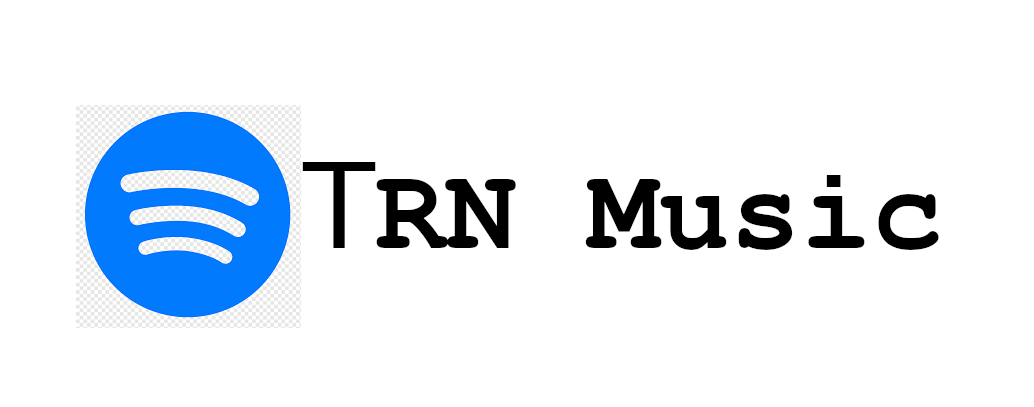
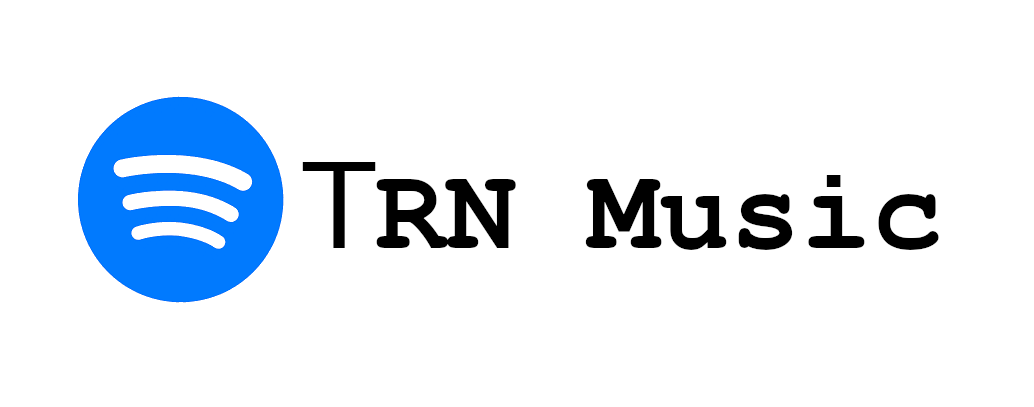
final

Changed region(s): [[0.0619, 0.2359, 0.3095, 0.8256]]

diff --git a/src/pages/Login.jsx b/src/pages/Login.jsx
@@ -3,6 +3,8 @@ import PropTypes from 'prop-types';
 import { Redirect } from 'react-router-dom';
 import { createUser } from '../services/userAPI';
 import Loading from './Loading';
+import logoTrn from './images/Sem título.png';
+import './Login.css';
 
 class Login extends React.Component {
   state = {
@@ -26,9 +28,9 @@ class Login extends React.Component {
       redirect ? <Redirect to="/search" /> : (
         <div data-testid="page-login">
           { loading ? <Loading /> : (
-            <section>
+            <section className="page-login">
               <img
-                src="src/pages/images/Sem título.png"
+                src={ logoTrn }
                 alt="logo"
               />
               <form>
@@ -39,6 +41,7 @@ class Login extends React.Component {
                     data-testid="login-name-input"
                     value={ name }
                     onChange={ onInputChange }
+                    placeholder="Usuario"
                   />
                 </label>
                 <button

diff --git a/src/components/Header.jsx b/src/components/Header.jsx
@@ -2,6 +2,8 @@ import React from 'react';
 import { Link } from 'react-router-dom';
 import Loading from '../pages/Loading';
 import { getUser } from '../services/userAPI';
+import './Header.css';
+import logoTrn from '../pages/images/Sem título.png';
 
 class Header extends React.Component {
   state = {
@@ -23,10 +25,11 @@ class Header extends React.Component {
   render() {
     const { username, loading } = this.state;
     return (
-      <header data-testid="header-component">
+      <header data-testid="header-component" className="header-component">
         {loading ? <Loading /> : (
-          <div data-testid="header-user-name">
-            { username }
+          <div data-testid="header-user-name" className="header-user-name">
+            <img src={ logoTrn } alt="logoTRN" />
+            <h3>{ username }</h3>
           </div>)}
         <nav>
           <Link data-testid="link-to-search" to="/search">Procura</Link>

diff --git a/src/components/Header.css b/src/components/Header.css
@@ -1,0 +1,27 @@
+.header-component {
+    display: flex;
+    flex-direction: column;
+    align-items: center;
+}
+
+.header-user-name {
+    display: flex;
+    height: 20%;
+    width: 95%;
+    align-content: center;
+    align-items: center;
+    justify-content: space-between;
+    border: 2px;
+    padding: 3px;
+}
+
+.header-user-name img {
+    height: 100px;
+}
+
+nav {
+    display: flex;
+    height: 40%;
+    width: 100%;
+    background-color: rgb(0, 81, 255);
+}

diff --git a/src/pages/Login.css b/src/pages/Login.css
@@ -1,0 +1,5 @@
+.page-login {
+    display: flex;
+    flex-direction: column;
+    align-items: center;
+}
